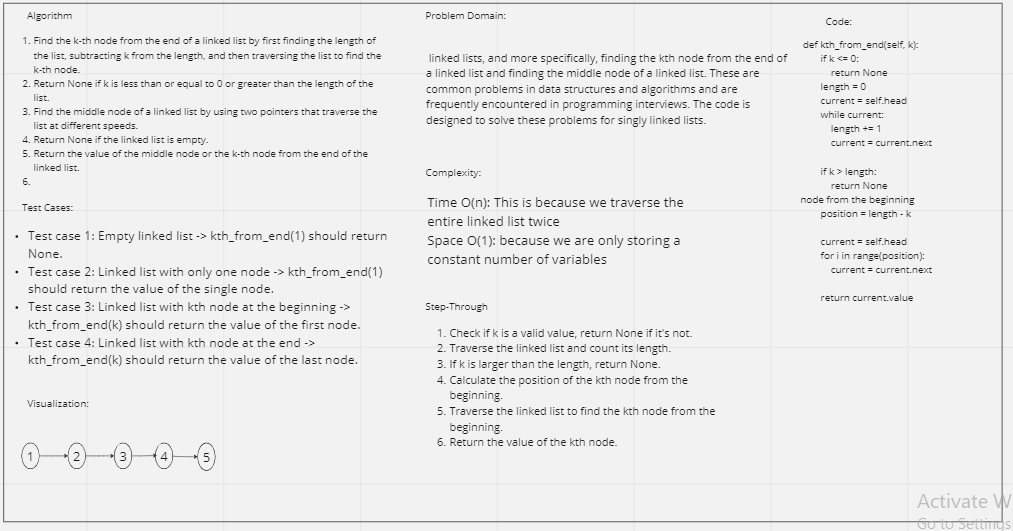
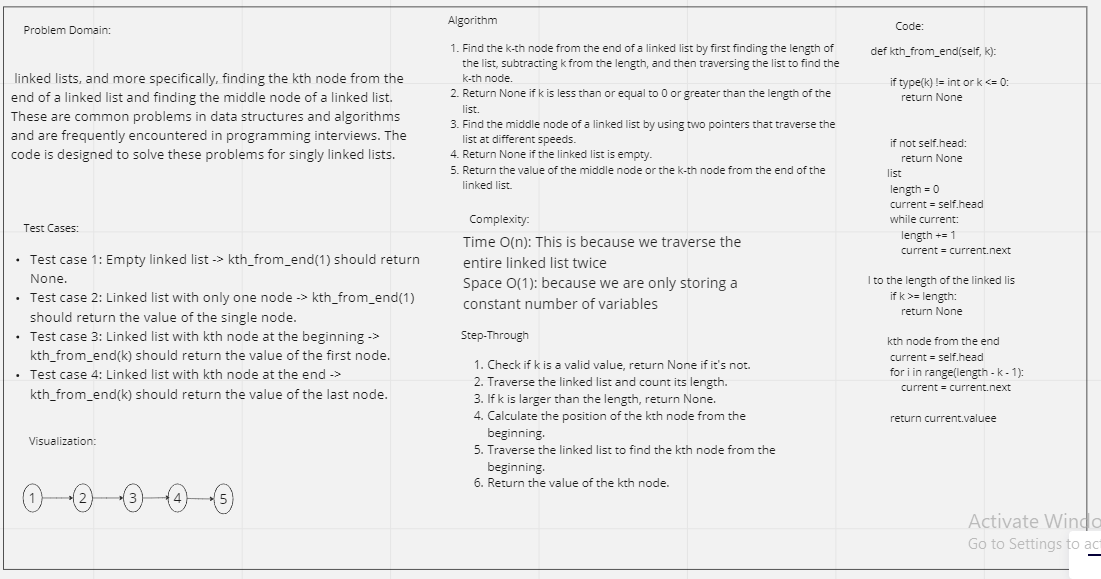
i chanched the conteten of kth function and updated the white bored

diff --git a/linked_list1/linked_list.py b/linked_list1/linked_list.py
@@ -6,28 +6,23 @@ class Node:
 class LinkedList:
     def __init__(self):
         self.head = None
+   
 
-    def __str__(self):
-        return self.to_string()
     
-    def append(self,value):
-        """Adds a new node with that value to the end of the list 
-        Args:
-            value: value of the new node
-            
-            Returns: nothing
-            
-            Raises: nothing"""
+    
+    def append(self, value):
+        new_node = Node(value)
 
-        node = Node(value)
-        
-        if self.head is None:
-            self.head = node
-        else:
-            current = self.head
-            while current.next is not None:
-                current = current.next
-            current.next = node
+        if not self.head:
+            self.head = new_node
+            return
+
+        current = self.head
+        while current.next:
+            current = current.next
+
+        current.next = new_node
+
 
     def insert(self, data):
         """Inserts a new node with that value before the first node of the list
@@ -155,28 +150,38 @@ class LinkedList:
         previous_node.next = current_node.next
         current_node = None
 
-    def kth_From_End(self,k):
-        if self.head is None:
-            return "Error : the linked list is empty"
-        elif k >= LinkedList.count:
-            return "Error : Your input can't be more than the length"  
-        elif k < 0 :
-            return "Error : only positive numbers are accepted!"
-        elif LinkedList.count == 1:
-            return self.head.value
-        else:        
-         pointer_one = self.head
-         pointer_two = self.head
+    def kth_from_end(self, k):
+        """
+         Args:
+            - k : The index of the node to return, where k = 1 returns the last node, k = 2 returns the second-last node, and so on.
+        Returns:
+            - The value of the kth node from the end of the linked list, or None if the linked list is empty, k is not a positive integer,
+            or k is greater than or equal to the length of the linked list.
+        """
+        # Check if k is a positive and is an integer
+        if type(k) != int or k <= 0:
+            return None
+        
+         # Check if the linked list is empty
+        if not self.head:
+            return None
 
-         for i in range(k):
-            pointer_two = pointer_two.next
+        # Calculate the length of the linked list
+        length = 0
+        current = self.head
+        while current:
+            length += 1
+            current = current.next
+        # Check if k is greater than or equal to the length of the linked lis
+        if k >= length:
+            return None
+        
+        # Traverse the linked list to find the kth node from the end
+        current = self.head
+        for i in range(length - k - 1):
+            current = current.next
 
-         while pointer_two.next is not None:
-           pointer_one = pointer_one.next
-           pointer_two = pointer_two.next
-
-         return pointer_one.value
-
+        return current.value
     # def kth_from_end(self, k):
     #     if k <= 0:
     #         return None
@@ -256,6 +261,18 @@ class LinkedList:
     #         list2_current = list2_next
     #     return list1
 
-
+         
+def __str__(self):
+        output = ""
+        if self.head is None:
+            output = "Empty LinkeList"
+        else:
+            current = self.head
+            while(current):
+                output += f'{current.value} -> '
+                current = current.next
+            
+            output += " Null"
+        return output  
 
 

diff --git a/linked_list1/test_kth.py b/linked_list1/test_kth.py
@@ -1,32 +1,35 @@
 import pytest
+
 from linked_list import LinkedList, Node
 
-def test_kth_from_end_greater_than_length():
+@pytest.fixture
+def linked_list():
+    # Create a sample linked list
     ll = LinkedList()
-    ll.head = Node(1)
-    assert ll.kth_from_end(2) == None
+    ll.append(1)
+    ll.append(3)
+    ll.append(8)
+    ll.append(2)
+    return ll
 
-def test_kth_from_end_same_length():
+def test_greater_than_list_length(linked_list):
+    # Test case 1: k is greater than the length of the linked list
+    assert linked_list.kth_from_end(5) is None
+
+def test_ksame_as_list_length(linked_list):
+    # Test case 2: k and the length of the list are the same
+    assert linked_list.kth_from_end(4) is None
+
+def test_not_positive_integer(linked_list):
+    # Test case 3: k is not a positive integer
+    assert linked_list.kth_from_end(-1) is None
+
+def test_size_one():
+    # Test case 4: the linked list is of a size 1
     ll = LinkedList()
-    ll.head = Node(1)
-    ll.head.next = Node(2)
-    assert ll.kth_from_end(2) == 1
+    ll.append(1)
+    assert ll.kth_from_end(1) is None
 
-
-def test_kth_from_end_not_positive_integer():
-    ll = LinkedList()
-    ll.head = Node(1)
-    assert ll.kth_from_end(-1) == None
-
-def test_kth_from_end_size_1():
-    ll = LinkedList()
-    ll.head = Node(1)
-    assert ll.kth_from_end(1) == 1
-
-def test_kth_from_end_happy_path():
-    ll = LinkedList()
-    ll.head = Node(1)
-    ll.head.next = Node(2)
-    ll.head.next.next = Node(3)
-    ll.head.next.next.next = Node(4)
-    assert ll.kth_from_end(2) == 3
+def test_happy_path(linked_list):
+    # Test case 5: k is not at the end, but somewhere in the middle of the linked list
+    assert linked_list.kth_from_end(2) == 3

diff --git a/linked_list1/linked_list_kth.md b/linked_list1/linked_list_kth.md
@@ -1,8 +1,7 @@
 # Code Chalenge 07
 kth from end
-
-arguments: k returns the node’s value that is k places from the tail of the linked list.
-zip lists
+ The value of the kth node from the end of the linked list, or None if the linked list is empty, k is not a positive integer,
+ or k is greater than or equal to the length of the linked list.
 ![MarineGEO circle logo](/linked_list1/kth.png)
 
 
